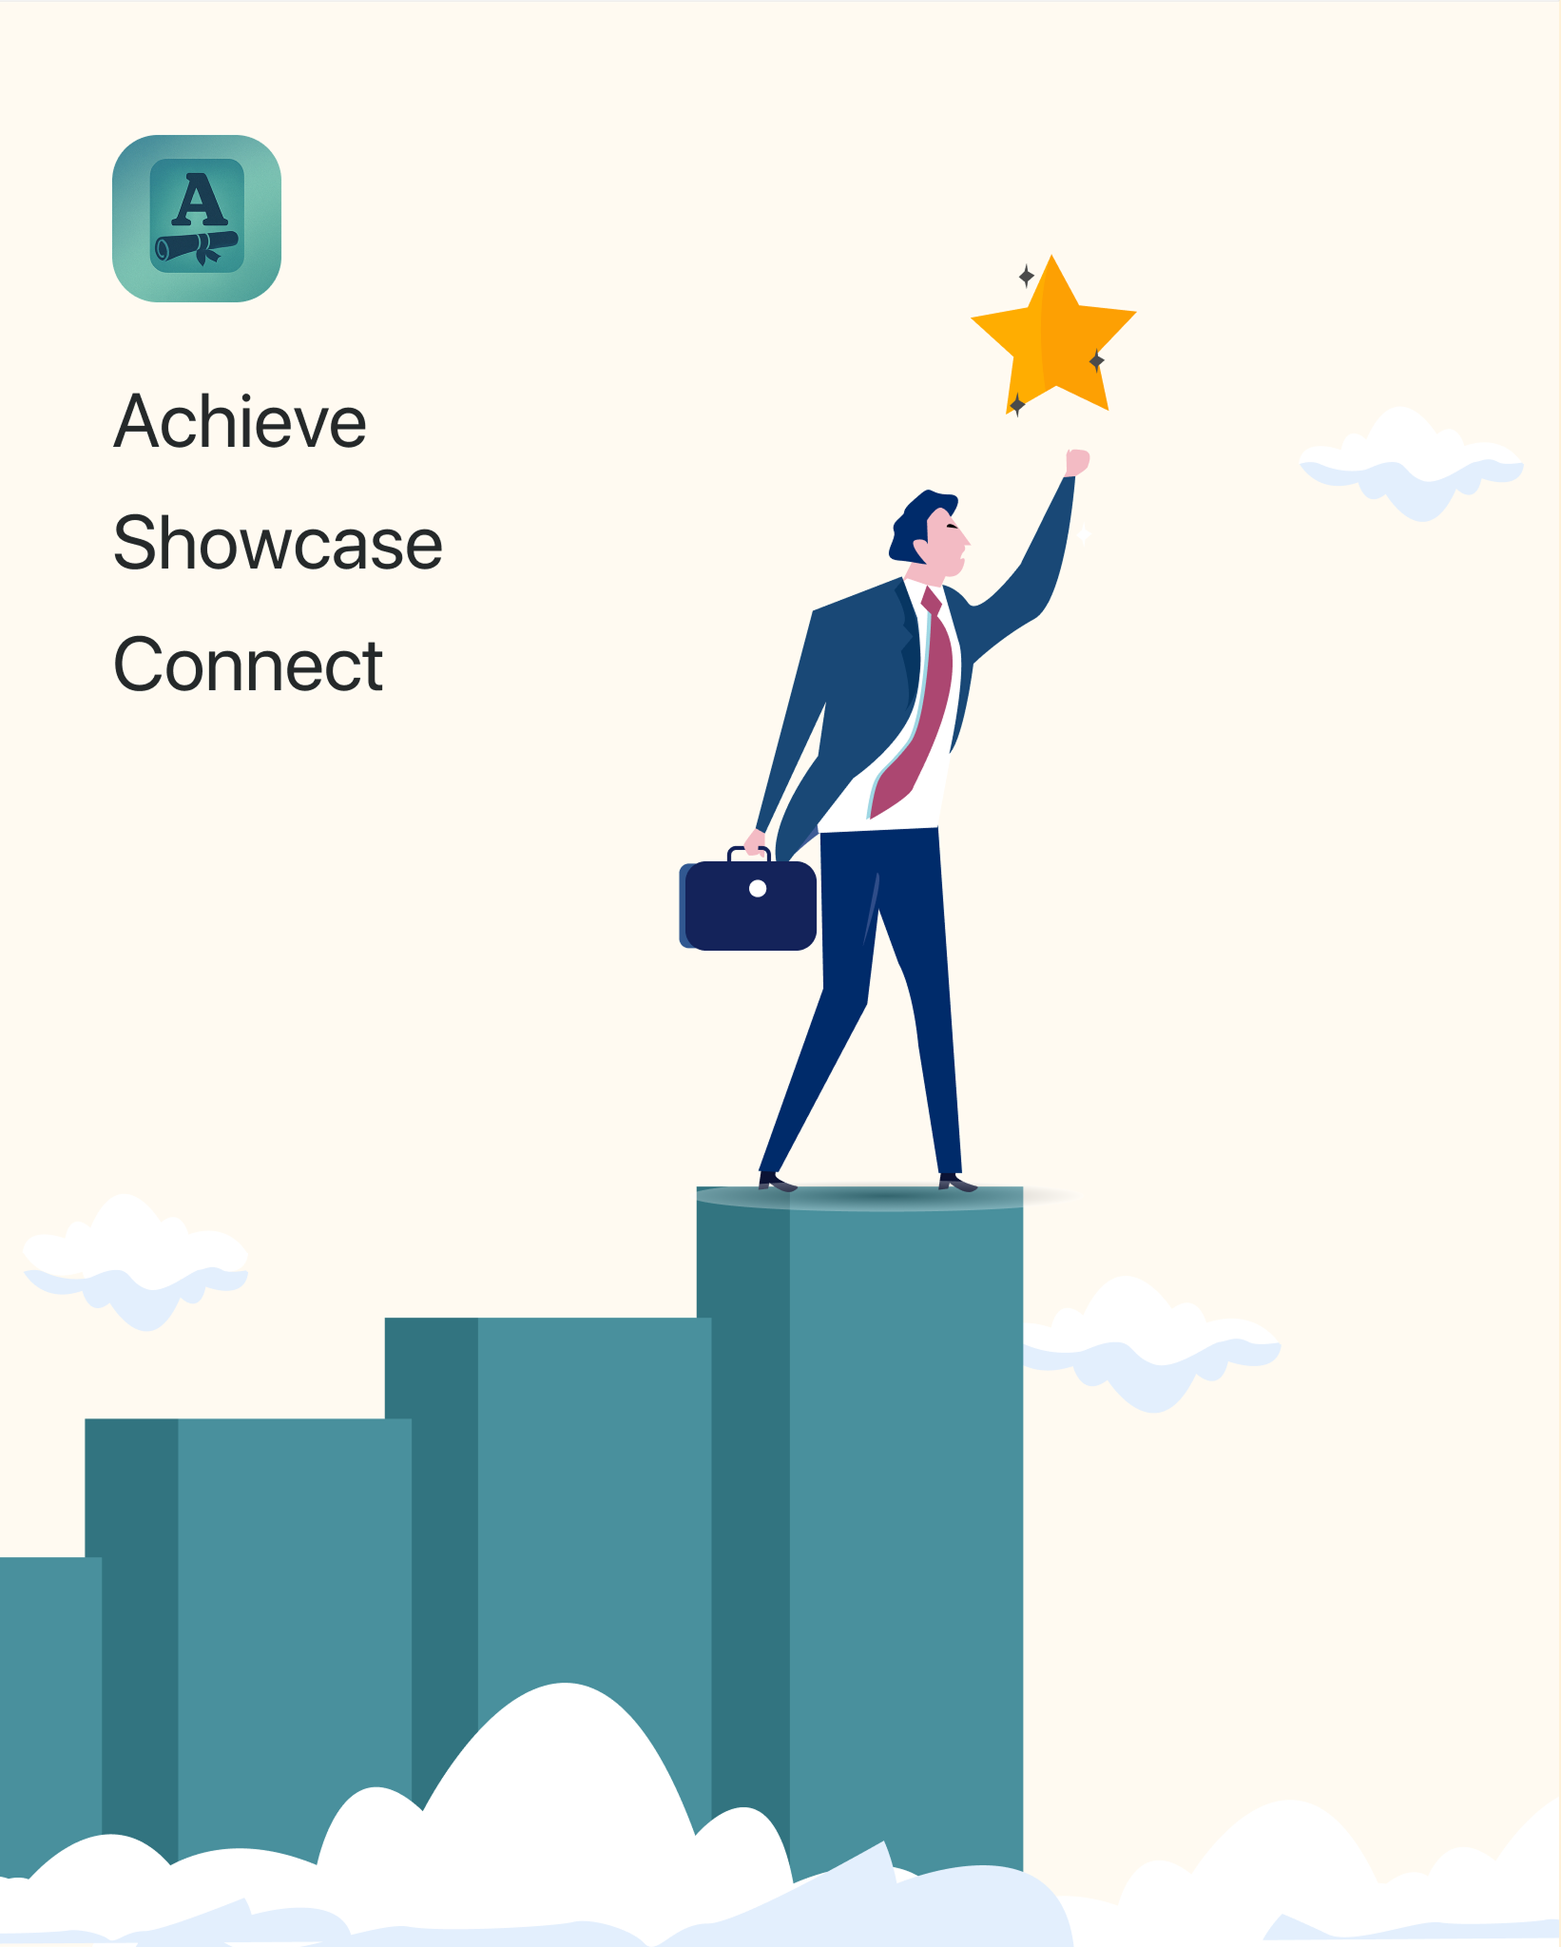
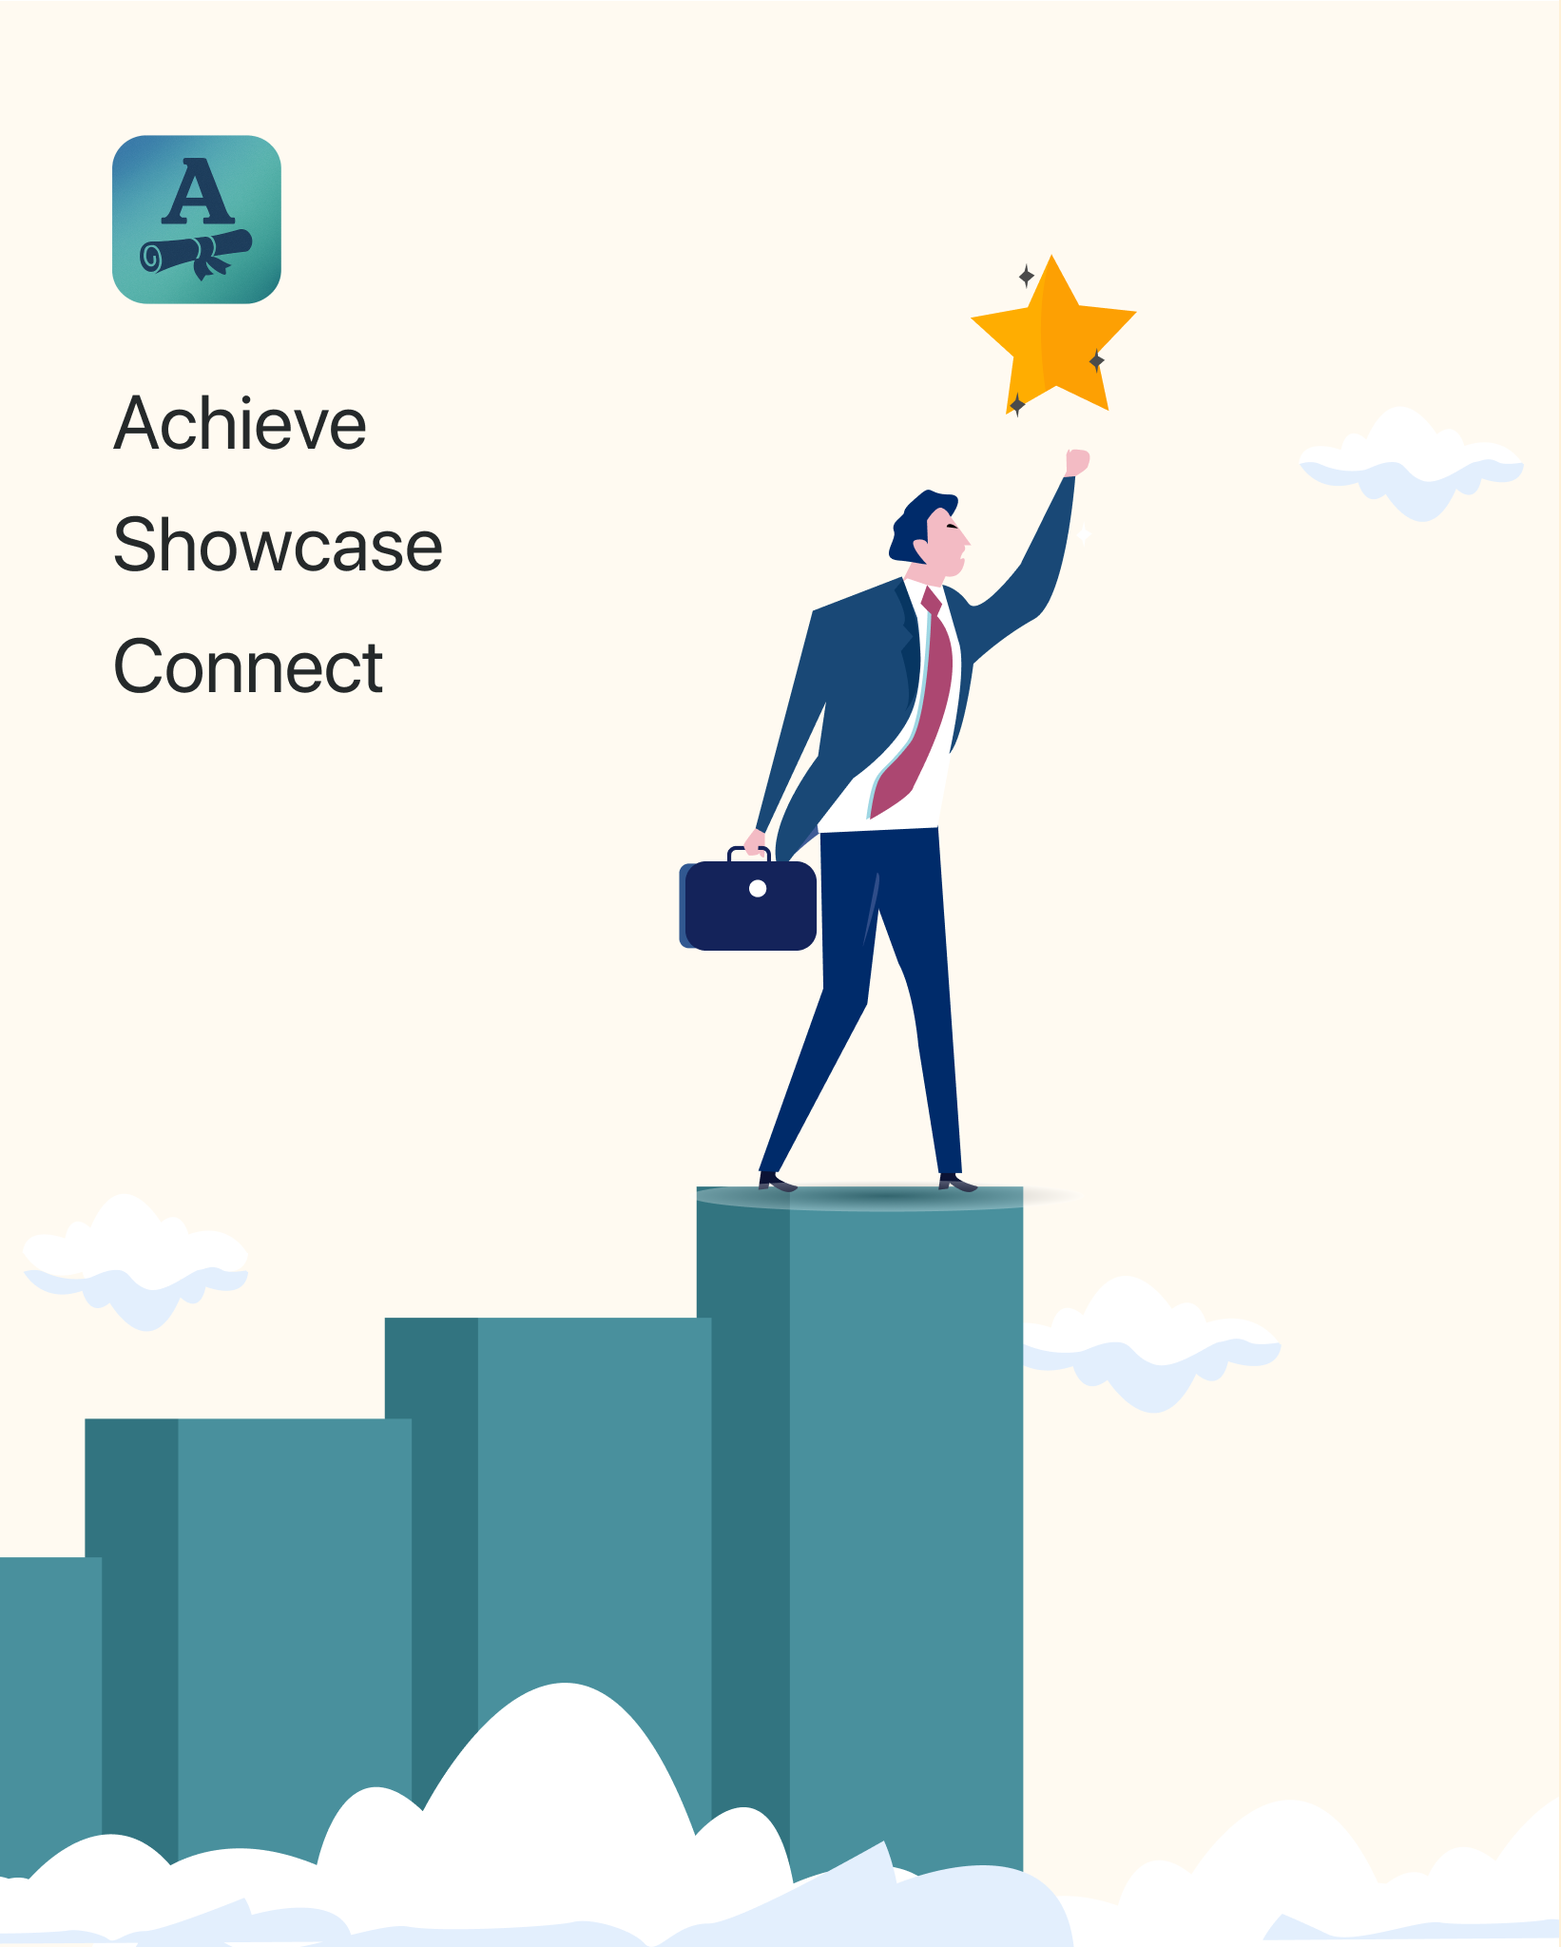
`Feat`: - Change auth image - Change font in end cards title

diff --git a/src/components/common/cards/detail-cards/language-card.tsx b/src/components/common/cards/detail-cards/language-card.tsx
@@ -36,7 +36,7 @@ const LanguageCard: FC<IProps> = ({ form_data }) => {
           </p>
         )}
         {date && (
-          <p className="quicksand text-[var(--gray-60)] font-normal text-xs">
+          <p className="font-quicksand text-[var(--gray-60)] font-normal text-xs">
             {formatToDDMMYYYY(date)}
           </p>
         )}
@@ -46,13 +46,13 @@ const LanguageCard: FC<IProps> = ({ form_data }) => {
           {lang && (
             <div className="flex items-center gap-x-2">
               <Image className="size-5" alt="" src={language} />
-              <p className="quicksand font-semibold text-sm text-[var(--black)]">{lang}</p>
+              <p className="font-quicksand font-medium text-sm text-[var(--black)]">{lang}</p>
             </div>
           )}
           {yearsOfStudy && (
             <div className="flex items-center gap-x-2">
               <Image className="size-5" alt="" src={book} />
-              <p className="quicksand font-normal w-full flex items-center justify-between text-sm text-[var(--black)]">
+              <p className="font-quicksand font-normal w-full flex items-center justify-between text-sm text-[var(--black)]">
                 Years of Study
                 <span className="font-medium">{yearsOfStudy}</span>
               </p>
@@ -61,7 +61,9 @@ const LanguageCard: FC<IProps> = ({ form_data }) => {
           {institute && (
             <div className="flex items-center gap-x-2">
               <Image className="size-5" alt="" src={building} />
-              <p className="quicksand font-normal text-sm text-[var(--gray-70)]">{institute}</p>
+              <p className="font-quicksand font-normal text-sm text-[var(--gray-70)]">
+                {institute}
+              </p>
             </div>
           )}
         </div>
@@ -75,14 +77,16 @@ const LanguageCard: FC<IProps> = ({ form_data }) => {
         <hr className="-my-2 border border-[var(--gray-10)]" />
       )}
       {link && (
-        <a href={validUrl} className="text-[var(--blue)] text-xs font-normal quicksand">
+        <a href={validUrl} className="text-[var(--blue)] text-xs font-normal font-quicksand">
           {link}
         </a>
       )}
       {notes && (
         <div className="flex gap-x-1.5 items-start">
           <Image src={note} alt="note" className="size-5" />
-          <p className="text-[var(--gray-70)] text-sm font-normal quicksand break-all">{notes}</p>
+          <p className="text-[var(--gray-70)] text-sm font-normal font-quicksand break-all">
+            {notes}
+          </p>
         </div>
       )}
     </Box>

diff --git a/src/components/common/cards/detail-cards/volunteer-card.tsx b/src/components/common/cards/detail-cards/volunteer-card.tsx
@@ -44,7 +44,7 @@ const VolunteerCard: FC<IProps> = ({ form_data }) => {
             </p>
           )}
           {(startDate || endDate) && (
-            <p className="quicksand text-[var(--gray-70)] font-normal text-xs break-all">
+            <p className="font-quicksand text-[var(--gray-70)] font-normal text-xs break-all">
               {startDate}
               {startDate && endDate ? ' - ' : ''}
               {endDate}
@@ -56,7 +56,7 @@ const VolunteerCard: FC<IProps> = ({ form_data }) => {
       {organization && (
         <div className="flex gap-x-1.5 items-center">
           <Image src={building} alt="building" className="size-4" />
-          <p className="text-[var(--black)] text-sm font-normal quicksand break-all">
+          <p className="text-[var(--black)] text-sm font-normal font-quicksand break-all">
             {organization}
           </p>
         </div>
@@ -77,7 +77,7 @@ const VolunteerCard: FC<IProps> = ({ form_data }) => {
       )}
 
       {link && (
-        <Link href={validUrl} className="text-[var(--blue)] text-xs font-normal quicksand">
+        <Link href={validUrl} className="text-[var(--blue)] text-xs font-normal font-quicksand">
           {link}
         </Link>
       )}
@@ -85,7 +85,9 @@ const VolunteerCard: FC<IProps> = ({ form_data }) => {
       {doc && (
         <div className="flex gap-x-1.5 items-start">
           <Image src={note} alt="note" className="size-5" />
-          <p className="text-[var(--gray-70)] text-sm font-normal quicksand break-all">{doc}</p>
+          <p className="text-[var(--gray-70)] text-sm font-normal font-quicksand break-all">
+            {doc}
+          </p>
         </div>
       )}
     </Box>

diff --git a/src/components/common/cards/detail-cards/internships-card.tsx b/src/components/common/cards/detail-cards/internships-card.tsx
@@ -38,7 +38,7 @@ const InternshipsCard: FC<IProps> = ({ form_data }) => {
         <div className="flex w-full justify-between">
           <div className="w-full">
             {title && (
-              <p className="font-medium text-[var(--heading)] quicksand !text-sm break-all">
+              <p className="font-medium text-[var(--heading)] font-quicksand !text-sm break-all">
                 {title}
               </p>
             )}
@@ -50,7 +50,7 @@ const InternshipsCard: FC<IProps> = ({ form_data }) => {
             )}
 
             {(startDate || endDate) && (
-              <p className="mt-2 text-[var(--black)] text-xs font-medium quicksand">
+              <p className="mt-2 text-[var(--black)] text-xs font-quicksand">
                 {startDate}
                 {startDate && endDate ? ' - ' : ''}
                 {endDate}
@@ -79,14 +79,14 @@ const InternshipsCard: FC<IProps> = ({ form_data }) => {
       )}
 
       {link && (
-        <Link href={validUrl} className="text-[var(--blue)] text-xs font-normal quicksand">
+        <Link href={validUrl} className="text-[var(--blue)] text-xs font-normal font-quicksand">
           {link}
         </Link>
       )}
       {doc && (
         <div className="flex gap-x-1.5 items-start">
           <Image src={note} alt="note" className="size-5" />
-          <p className="text-[var(--gray-70)] text-sm font-normal quicksand">{doc}</p>
+          <p className="text-[var(--gray-70)] text-sm font-normal font-quicksand">{doc}</p>
         </div>
       )}
     </Box>

diff --git a/src/components/common/cards/detail-cards/internship-abroad-card.tsx b/src/components/common/cards/detail-cards/internship-abroad-card.tsx
@@ -36,7 +36,9 @@ const InternshipAbroadCard: FC<IProps> = ({ form_data }) => {
             </p>
           )}
           {date && (
-            <p className="quicksand text-[var(--gray-70)] font-normal text-sm break-all">{date}</p>
+            <p className="font-quicksand text-[var(--gray-70)] font-normal text-sm break-all">
+              {date}
+            </p>
           )}
         </div>
       </div>
@@ -44,14 +46,14 @@ const InternshipAbroadCard: FC<IProps> = ({ form_data }) => {
         <div className="space-y-2">
           <div className="flex items-center gap-x-2">
             <Image className="size-5" alt="" src={locationColored} />
-            <p className="quicksand font-normal text-sm text-[var(--black)]">{destination}</p>
+            <p className="font-quicksand font-normal text-sm text-[var(--black)]">{destination}</p>
           </div>
         </div>
       )}
       {company && (
         <div className="flex items-center gap-x-2">
           <Image className="size-5" alt="" src={agency} />
-          <p className="quicksand font-normal text-sm text-[var(--black)]">{company}</p>
+          <p className="font-quicksand font-normal text-sm text-[var(--black)]">{company}</p>
         </div>
       )}
     </Box>

diff --git a/src/components/common/cards/detail-cards/clubs-card.tsx b/src/components/common/cards/detail-cards/clubs-card.tsx
@@ -22,7 +22,7 @@ const ClubsCard: FC<IProps> = ({ form_data }) => {
           </p>
         )}
         {date_joined && (
-          <p className="quicksand text-[var(--gray-70)] font-normal text-sm">
+          <p className="font-quicksand text-[var(--gray-70)] font-normal text-sm">
             {formatToDDMMYYYY(date_joined)}
           </p>
         )}
@@ -32,13 +32,13 @@ const ClubsCard: FC<IProps> = ({ form_data }) => {
           {tag && (
             <div className="flex items-center gap-x-2">
               <Image className="size-5" alt="" src={bill} />
-              <p className="quicksand font-normal text-sm text-[var(--heading)]">{tag}</p>
+              <p className="font-quicksand font-normal text-sm text-[var(--heading)]">{tag}</p>
             </div>
           )}
           {location && (
             <div className="flex items-center gap-x-2">
               <Image className="size-5" alt="" src={locationColored} />
-              <p className="quicksand font-normal text-sm text-[var(--heading)]">{location}</p>
+              <p className="font-quicksand font-normal text-sm text-[var(--heading)]">{location}</p>
             </div>
           )}
         </div>

diff --git a/src/components/common/cards/detail-cards/semester-at-sea-card.tsx b/src/components/common/cards/detail-cards/semester-at-sea-card.tsx
@@ -35,12 +35,12 @@ const SemesterAtSeaCard: FC<IProps> = ({ form_data }) => {
           <Image src={routing} alt="routing" className="size-6" />
           <div>
             {destination && (
-              <p className="font-medium text-[var(--heading)] quicksand !text-sm break-all">
+              <p className="font-medium text-[var(--heading)] font-quicksand !text-sm break-all">
                 {destination}
               </p>
             )}
             {date && (
-              <p className="quicksand text-[var(--gray-60)] font-normal text-xs break-all">
+              <p className="font-quicksand text-[var(--gray-60)] font-normal text-xs break-all">
                 {date}
               </p>
             )}
@@ -50,7 +50,7 @@ const SemesterAtSeaCard: FC<IProps> = ({ form_data }) => {
       {institution && (
         <div className="flex gap-x-2 items-center">
           <Image src={building} alt="building" className="size-4" />
-          <p className="text-[var(--black)] text-sm font-normal quicksand">{institution}</p>
+          <p className="text-[var(--black)] text-sm font-normal font-quicksand">{institution}</p>
         </div>
       )}
     </Box>

diff --git a/src/components/common/cards/detail-cards/study-abroad-card.tsx b/src/components/common/cards/detail-cards/study-abroad-card.tsx
@@ -34,19 +34,21 @@ const StudyAbroadCard: FC<IProps> = ({ form_data }) => {
         <Image src={teacherBlue} alt="teacher" className="size-6" />
         <div>
           {destination && (
-            <p className="font-medium text-[var(--heading)] quicksand !text-sm break-all">
+            <p className="font-medium text-[var(--heading)] font-quicksand !text-sm break-all">
               {destination}
             </p>
           )}
           {date && (
-            <p className="quicksand text-[var(--gray-60)] font-normal text-xs break-all">{date}</p>
+            <p className="font-quicksand text-[var(--gray-60)] font-normal text-xs break-all">
+              {date}
+            </p>
           )}
         </div>
       </div>
       {institution && (
         <div className="flex gap-x-2 items-center">
           <Image src={building} alt="building" className="size-4" />
-          <p className="text-[var(--black)] text-sm font-normal quicksand">{institution}</p>
+          <p className="text-[var(--black)] text-sm font-normal font-quicksand">{institution}</p>
         </div>
       )}
     </Box>

diff --git a/src/components/common/cards/detail-cards/travel-card.tsx b/src/components/common/cards/detail-cards/travel-card.tsx
@@ -18,16 +18,20 @@ const TravelCard: FC<IProps> = ({ form_data }) => {
 
   return (
     <Box className="w-full !gap-y-3">
-      {title && <p className="font-medium text-heading quicksand text-sm break-all">{title}</p>}
+      {title && (
+        <p className="font-medium text-heading font-quicksand text-sm break-all">{title}</p>
+      )}
       <div className="flex items-center gap-x-3">
         <Image src={airplane} alt="airplane" className="size-6" />
         <div>
           {destination && (
-            <p className="font-medium text-[var(--heading)] quicksand !text-sm break-all">
+            <p className="font-medium text-[var(--heading)] font-quicksand !text-sm break-all">
               {destination}
             </p>
           )}
-          {date && <p className="quicksand text-[var(--gray-60)] font-normal text-xs">{date}</p>}
+          {date && (
+            <p className="font-quicksand text-[var(--gray-60)] font-normal text-xs">{date}</p>
+          )}
         </div>
       </div>
     </Box>

diff --git a/src/components/common/cards/detail-cards/art-card.tsx b/src/components/common/cards/detail-cards/art-card.tsx
@@ -22,7 +22,7 @@ const ArtCard: FC<IProps> = ({ form_data }) => {
         )}
 
         {date && (
-          <p className="quicksand text-[var(--gray-60)] font-normal text-xs">
+          <p className="font-quicksand text-[var(--gray-60)] font-normal text-xs">
             {formatToDDMMYYYY(date)}
           </p>
         )}
@@ -31,7 +31,7 @@ const ArtCard: FC<IProps> = ({ form_data }) => {
       {notes && (
         <div className="flex gap-x-2 items-start">
           <Image src={note} alt="note" className="size-4" />
-          <p className="text-[var(--gray-80)] text-xs font-normal quicksand break-all line-clamp-2">
+          <p className="text-[var(--gray-80)] text-xs font-normal font-quicksand break-all line-clamp-2">
             {notes}
           </p>
         </div>

diff --git a/src/components/common/cards/detail-cards/investing-card.tsx b/src/components/common/cards/detail-cards/investing-card.tsx
@@ -19,14 +19,14 @@ const InvestingCard: FC<IProps> = ({ form_data }) => {
           </p>
         )}
         {date && (
-          <p className="quicksand flex items-center justify-between text-[var(--gray-60)] font-normal text-xs">
+          <p className="font-quicksand flex items-center justify-between text-[var(--gray-60)] font-normal text-xs">
             {investment_type && <span>{investment_type}</span>}
             <span>{formatToDDMMYYYY(date)}</span>
           </p>
         )}
       </div>
       {notes && (
-        <p className="text-[var(--gray-80)] text-xs font-normal quicksand break-all line-clamp-2">
+        <p className="text-[var(--gray-80)] text-xs font-normal font-quicksand break-all line-clamp-2">
           {notes}
         </p>
       )}

diff --git a/src/components/common/studets-details/skills.tsx b/src/components/common/studets-details/skills.tsx
@@ -8,14 +8,15 @@ interface IProps {
 const Skills = ({ skills, title }: IProps) => {
   return (
     <Box className="!border-none !p-3 !gap-2">
-      <p className="text-heading font-medium">{title}</p>
+      <p className="text-heading font-medium text-xs font-quicksand">{title}</p>
+
       <div className="flex flex-wrap gap-2">
         {skills.map((skill, i) => (
           <Box
             key={i}
             className="!border-none !p-2 !py-1 !bg-neutral-grey-0 !rounded-md !w-fit !gap-2"
           >
-            <p className="text-heading capitalize text-sm">{skill}</p>
+            <p className="text-heading capitalize text-sm font-medium font-quicksand">{skill}</p>
           </Box>
         ))}
       </div>

diff --git a/src/components/common/cards/detail-cards/specialized-skills-card.tsx b/src/components/common/cards/detail-cards/specialized-skills-card.tsx
@@ -23,14 +23,16 @@ const SpecializedSkillsCard: FC<IProps> = ({ form_data }) => {
             </p>
           )}
           {date && (
-            <p className="quicksand text-[var(--gray-70)] font-normal text-xs">
+            <p className="font-quicksand text-[var(--gray-70)] font-normal text-xs">
               {formatToDDMMYYYY(date)}
             </p>
           )}
         </div>
       </div>
       {notes && (
-        <p className="text-[var(--gray-70)] text-xs font-normal quicksand break-all">{notes}</p>
+        <p className="text-[var(--gray-70)] text-xs font-normal font-quicksand break-all">
+          {notes}
+        </p>
       )}
     </Box>
   );
